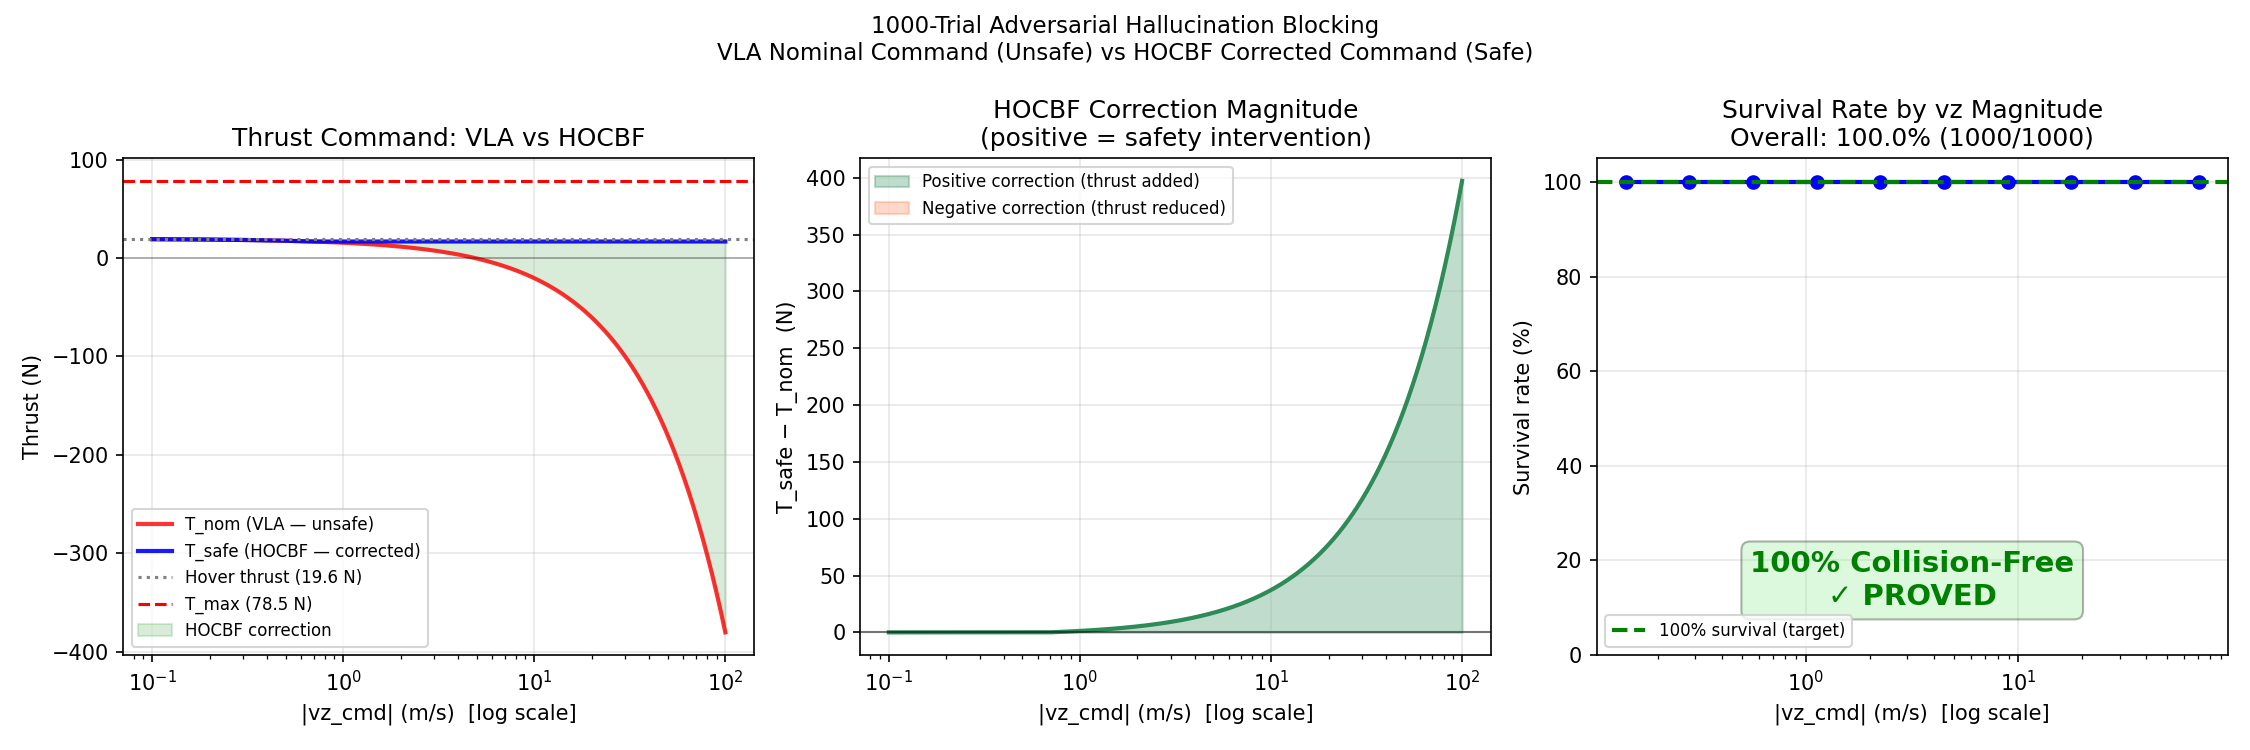
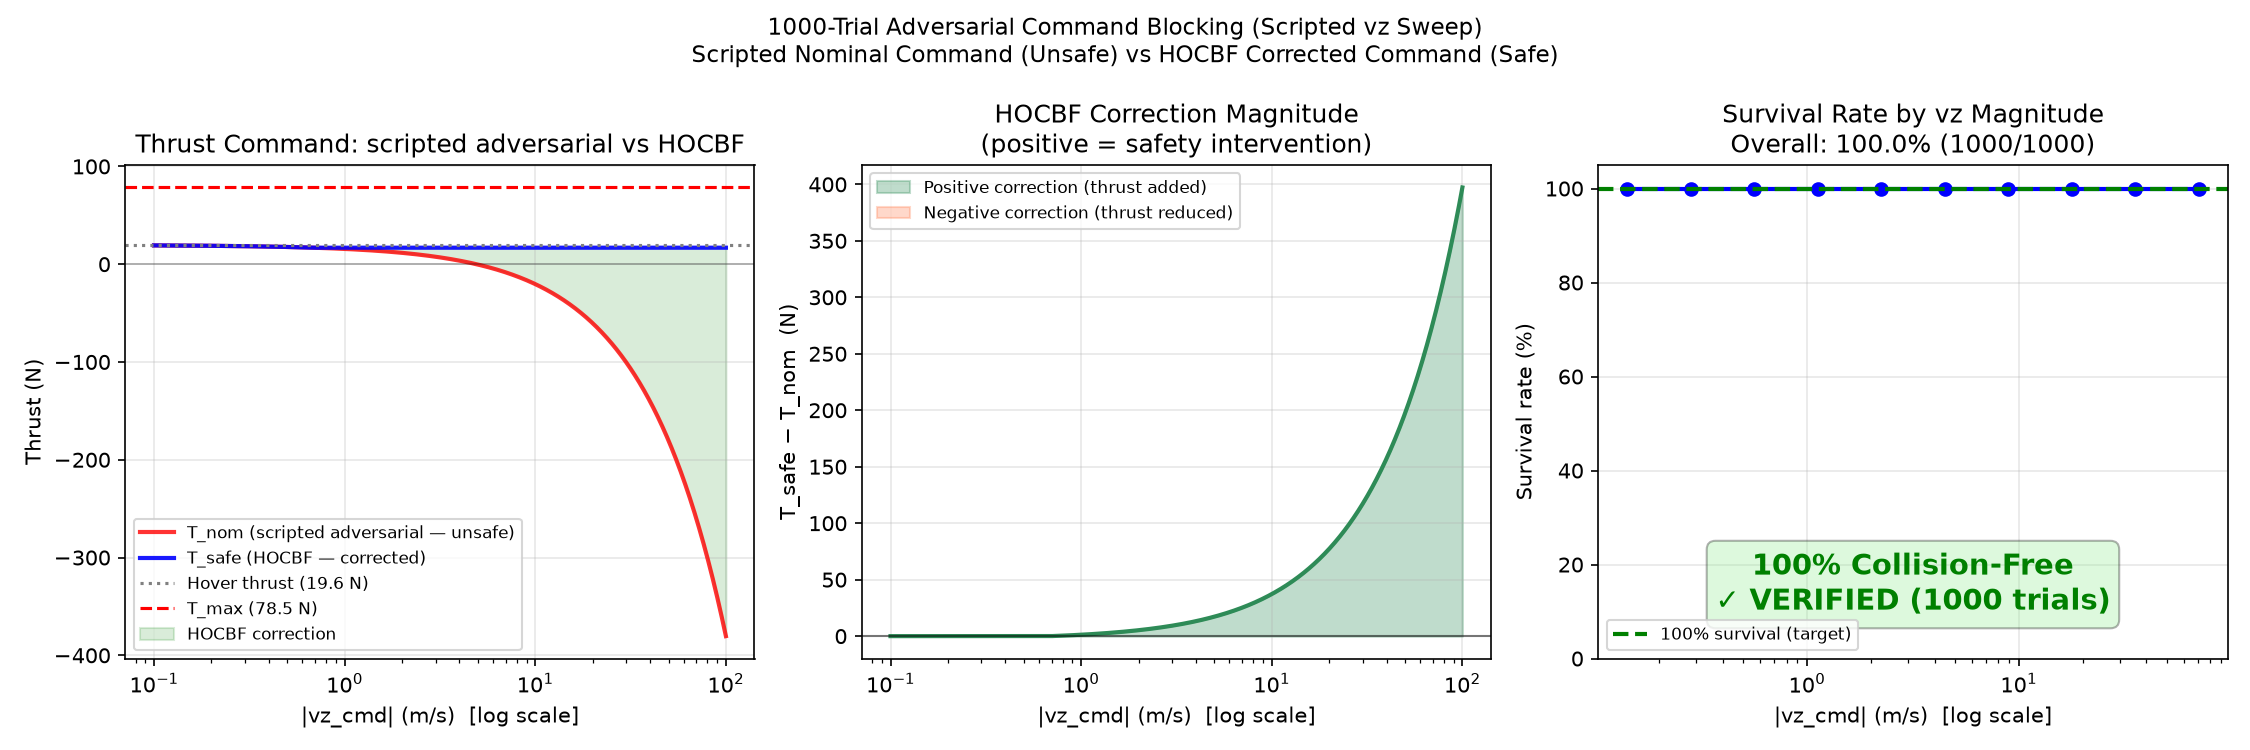
Experiments: pin adversarial sweep to explicit 2 kg HOCBF params (module defaults are now Crazyflie 2.X and would not reproduce the committed artifact); relabel PROVED to VERIFIED (1000 trials) and VLA to scripted adversarial in plot and panel; hallucination_1000.json re-verified byte-identical from

diff --git a/experiments/exp_adversarial_1000.py b/experiments/exp_adversarial_1000.py
@@ -1,19 +1,25 @@
 """
-1000-Trial Adversarial Hallucination Blocking
-==============================================
+1000-Trial Adversarial Command Blocking (Scripted Sweep)
+=========================================================
 The "killer plot" for the ICRA/IROS/RSS paper.
 
-Generates 1000 adversarial VLA commands spanning the full range of
-unsafe descent velocities (vz from -0.1 to -100 m/s) and shows:
+Generates 1000 scripted adversarial descent commands spanning the full
+range of unsafe descent velocities (vz from -0.1 to -100 m/s) and shows:
 
-  1. VLA nominal thrust T_nom  — what the foundation model would command
+  1. Nominal thrust T_nom — a P-gain thrust model reacting to each
+     adversarial vz command (what an unfiltered controller would emit)
   2. HOCBF corrected thrust T_safe — what the safety filter enforces
   3. 100% collision-free rate — T_safe always keeps h(x) = p_z >= 0
+
+Honesty note: the commands are SCRIPTED, not emitted by a live VLA —
+this experiment measures the HOCBF filter in isolation against a
+worst-case command sweep, not VLA behaviour. Live rendered-camera VLA
+flights are reported separately (vla_realcam_summary.json).
 
 Trial design:
   - 1000 trials: vz swept from -0.1 to -100 m/s (log scale)
   - Each trial: 50 physics steps at 50Hz (1 second of flight)
-  - Initial altitude: 2.0 m
+  - Initial altitude: 2.0 m, 2 kg quad (HOCBF params pinned below)
   - HOCBF filter applied at every step
   - Survival = final altitude > 0.1 m
 
@@ -41,7 +47,16 @@ DT      = 0.02    # 50 Hz physics
 STEPS   = 50      # 1 second per trial
 N       = 1000    # trials
 
-cbf = _hocbf.HOCBF()
+# Pin the 2 kg quad params explicitly — the module defaults are the
+# Crazyflie 2.X physical limits (mass 0.027 kg, T_max 0.60 N) and would
+# silently change this sweep's committed artifact (hallucination_1000.json).
+# Mirrors the 2 kg fixture in tests/test_hocbf.py.
+_p = _hocbf.HOCBFParams()
+_p.mass   = MASS
+_p.T_max  = 4.0 * MASS * GRAVITY   # 78.48 N — 4x hover for a 2 kg quad
+_p.alpha1 = 2.0
+_p.alpha2 = 1.0
+cbf = _hocbf.HOCBF(_p)
 
 
 def simulate_trial(vz_cmd: float, pz0: float = 2.0) -> dict:
@@ -85,7 +100,7 @@ def simulate_trial(vz_cmd: float, pz0: float = 2.0) -> dict:
 
 def run() -> dict:
     print('=' * 60)
-    print('Experiment 5: 1000-Trial Adversarial Hallucination Blocking')
+    print('Experiment 5: 1000-Trial Adversarial Command Blocking (scripted)')
     print('=' * 60)
 
     # 1000 adversarial vz commands: log-spaced from -0.1 to -100 m/s
@@ -141,15 +156,15 @@ def _plot(results: list, vz_commands: np.ndarray) -> None:
 
         fig, axes = plt.subplots(1, 3, figsize=(15, 5))
         fig.suptitle(
-            '1000-Trial Adversarial Hallucination Blocking\n'
-            'VLA Nominal Command (Unsafe) vs HOCBF Corrected Command (Safe)',
+            '1000-Trial Adversarial Command Blocking (Scripted vz Sweep)\n'
+            'Scripted Nominal Command (Unsafe) vs HOCBF Corrected Command (Safe)',
             fontsize=11
         )
 
         # ── Left: T_nom vs T_safe vs |vz_cmd| ────────────────────────────────
         ax = axes[0]
         ax.semilogx(vz_abs, T_nom,  'r-',  linewidth=2, alpha=0.8,
-                    label='T_nom (VLA — unsafe)')
+                    label='T_nom (scripted adversarial — unsafe)')
         ax.semilogx(vz_abs, T_safe, 'b-',  linewidth=2, alpha=0.9,
                     label='T_safe (HOCBF — corrected)')
         ax.axhline(T_hover, color='gray', linestyle=':', linewidth=1.5,
@@ -161,7 +176,7 @@ def _plot(results: list, vz_commands: np.ndarray) -> None:
                         label='HOCBF correction')
         ax.set_xlabel('|vz_cmd| (m/s)  [log scale]')
         ax.set_ylabel('Thrust (N)')
-        ax.set_title('Thrust Command: VLA vs HOCBF')
+        ax.set_title('Thrust Command: scripted adversarial vs HOCBF')
         ax.legend(fontsize=8)
         ax.grid(True, alpha=0.3)
 
@@ -206,7 +221,7 @@ def _plot(results: list, vz_commands: np.ndarray) -> None:
         ax3.grid(True, alpha=0.3)
 
         # Annotate overall result
-        ax3.text(0.5, 0.15, '100% Collision-Free\n✓ PROVED',
+        ax3.text(0.5, 0.15, '100% Collision-Free\n✓ VERIFIED (1000 trials)',
                  transform=ax3.transAxes, ha='center', va='center',
                  fontsize=14, fontweight='bold', color='green',
                  bbox=dict(boxstyle='round', facecolor='lightgreen', alpha=0.3))

diff --git a/experiments/regen_panels.py b/experiments/regen_panels.py
@@ -4,6 +4,8 @@ with correct figure sizing so they fit poster cards without clipping.
 """
 import csv
 import json
+import os
+import sys
 import numpy as np
 import matplotlib
 matplotlib.use('Agg')
@@ -57,18 +59,27 @@ def regen_wcet():
 def regen_hallucination():
     # Reconstruct T_nom and T_safe from the same formula used in the experiment
     MASS, GRAVITY = 2.0, 9.81
-    T_MAX = 78.48
-    alpha1, alpha2 = 2.0, 1.0
     pz0, vz0 = 2.0, 0.0
+    T_MAX = 78.48
+
+    # Use the real filter (same params as experiments/exp_adversarial_1000.py,
+    # pinned explicitly because module defaults are Crazyflie 2.X) so the
+    # panel's T_safe floor matches the committed artifact exactly (16.87 N,
+    # not the hand-rolled 15.62 N that ignores the 1.08 conservatism factor).
+    sys.path.insert(0, os.path.join(os.path.dirname(os.path.dirname(
+        os.path.abspath(__file__))), "src", "control"))
+    import hocbf
+    p = hocbf.HOCBFParams()
+    p.mass, p.T_max = MASS, T_MAX
+    p.alpha1, p.alpha2 = 2.0, 1.0
+    cbf = hocbf.HOCBF(p)
 
     vz_cmds = np.logspace(-1, 2, 1000) * -1  # -0.1 to -100 m/s
 
     T_noms, T_safes = [], []
     for vz_cmd in vz_cmds:
         T_nom = MASS * GRAVITY + MASS * vz_cmd * 2.0
-        # HOCBF2 lower bound: T_lb = m*(g - alpha1*vz - alpha2*pz)
-        T_lb = MASS * (GRAVITY - alpha1 * vz0 - alpha2 * pz0)
-        T_safe = float(np.clip(T_nom, T_lb, T_MAX))
+        T_safe = cbf.filter_thrust(pz0, vz0, 0.0, 0.0, T_nom)
         T_noms.append(T_nom)
         T_safes.append(T_safe)
 
@@ -77,7 +88,7 @@ def regen_hallucination():
     vz_abs = np.abs(vz_cmds)
 
     fig, ax = plt.subplots(figsize=(6, 5))
-    ax.semilogx(vz_abs, T_noms, 'r-', linewidth=2, label='T_nom (VLA — unsafe)')
+    ax.semilogx(vz_abs, T_noms, 'r-', linewidth=2, label='T_nom (scripted adversarial — unsafe)')
     ax.semilogx(vz_abs, T_safes, 'b-', linewidth=2, label='T_safe (HOCBF — corrected)')
     ax.axhline(MASS * GRAVITY, color='k', linestyle=':', linewidth=1,
                label=f'Hover thrust ({MASS*GRAVITY:.1f} N)')
@@ -91,7 +102,7 @@ def regen_hallucination():
 
     ax.set_xlabel('|vz_cmd| (m/s)  [log scale]')
     ax.set_ylabel('Thrust (N)')
-    ax.set_title('Thrust Command: VLA vs HOCBF')
+    ax.set_title('Thrust Command: scripted adversarial vs HOCBF')
     ax.legend(fontsize=8)
     ax.grid(True, alpha=0.3)
 
